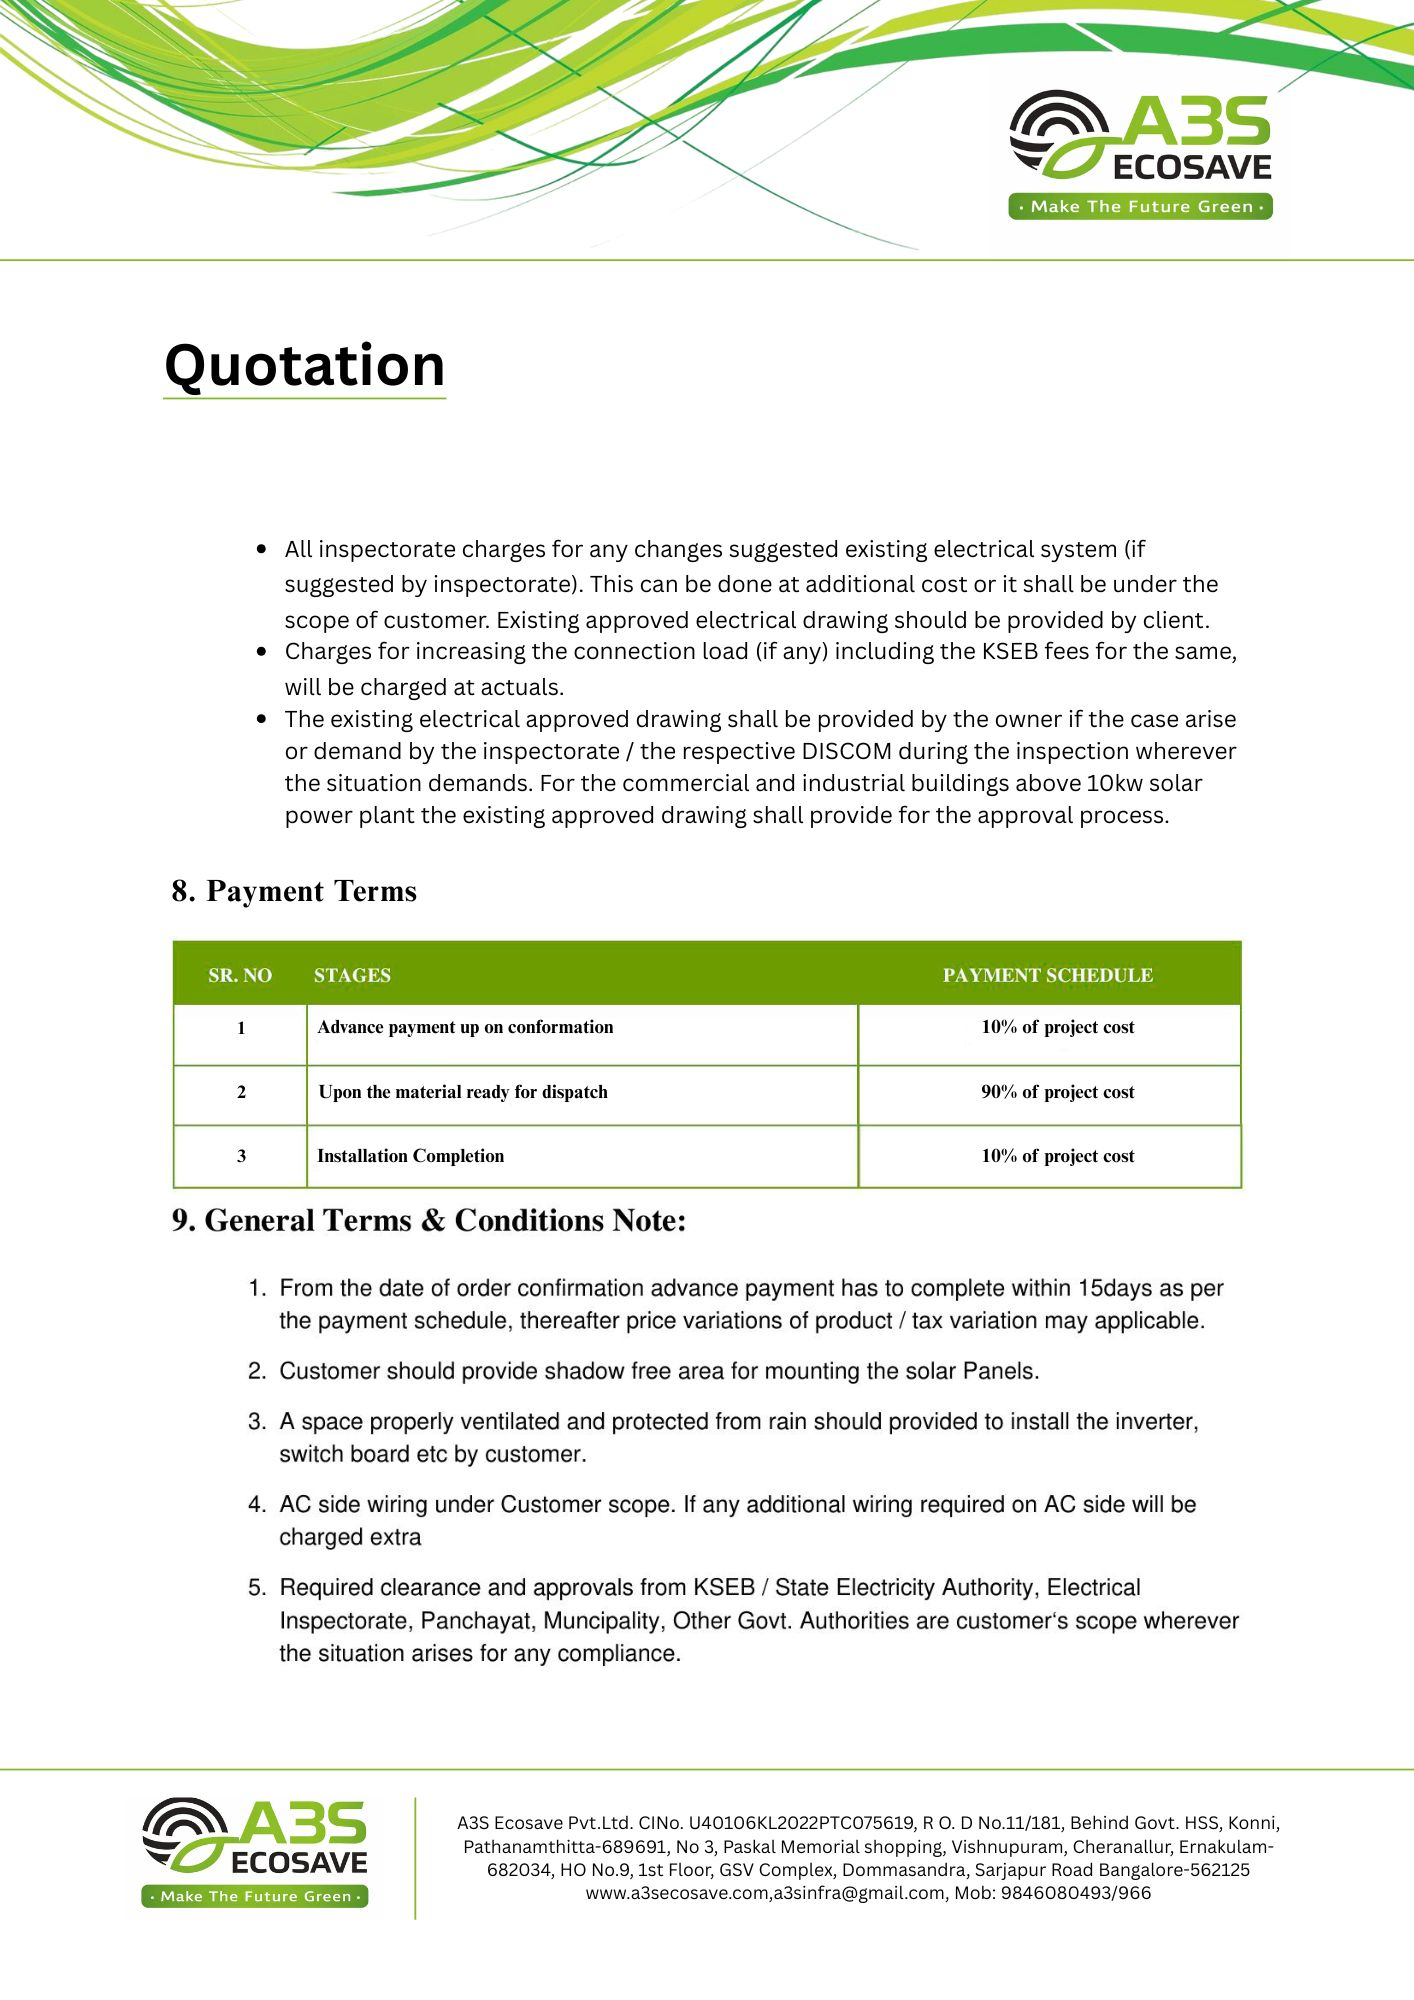
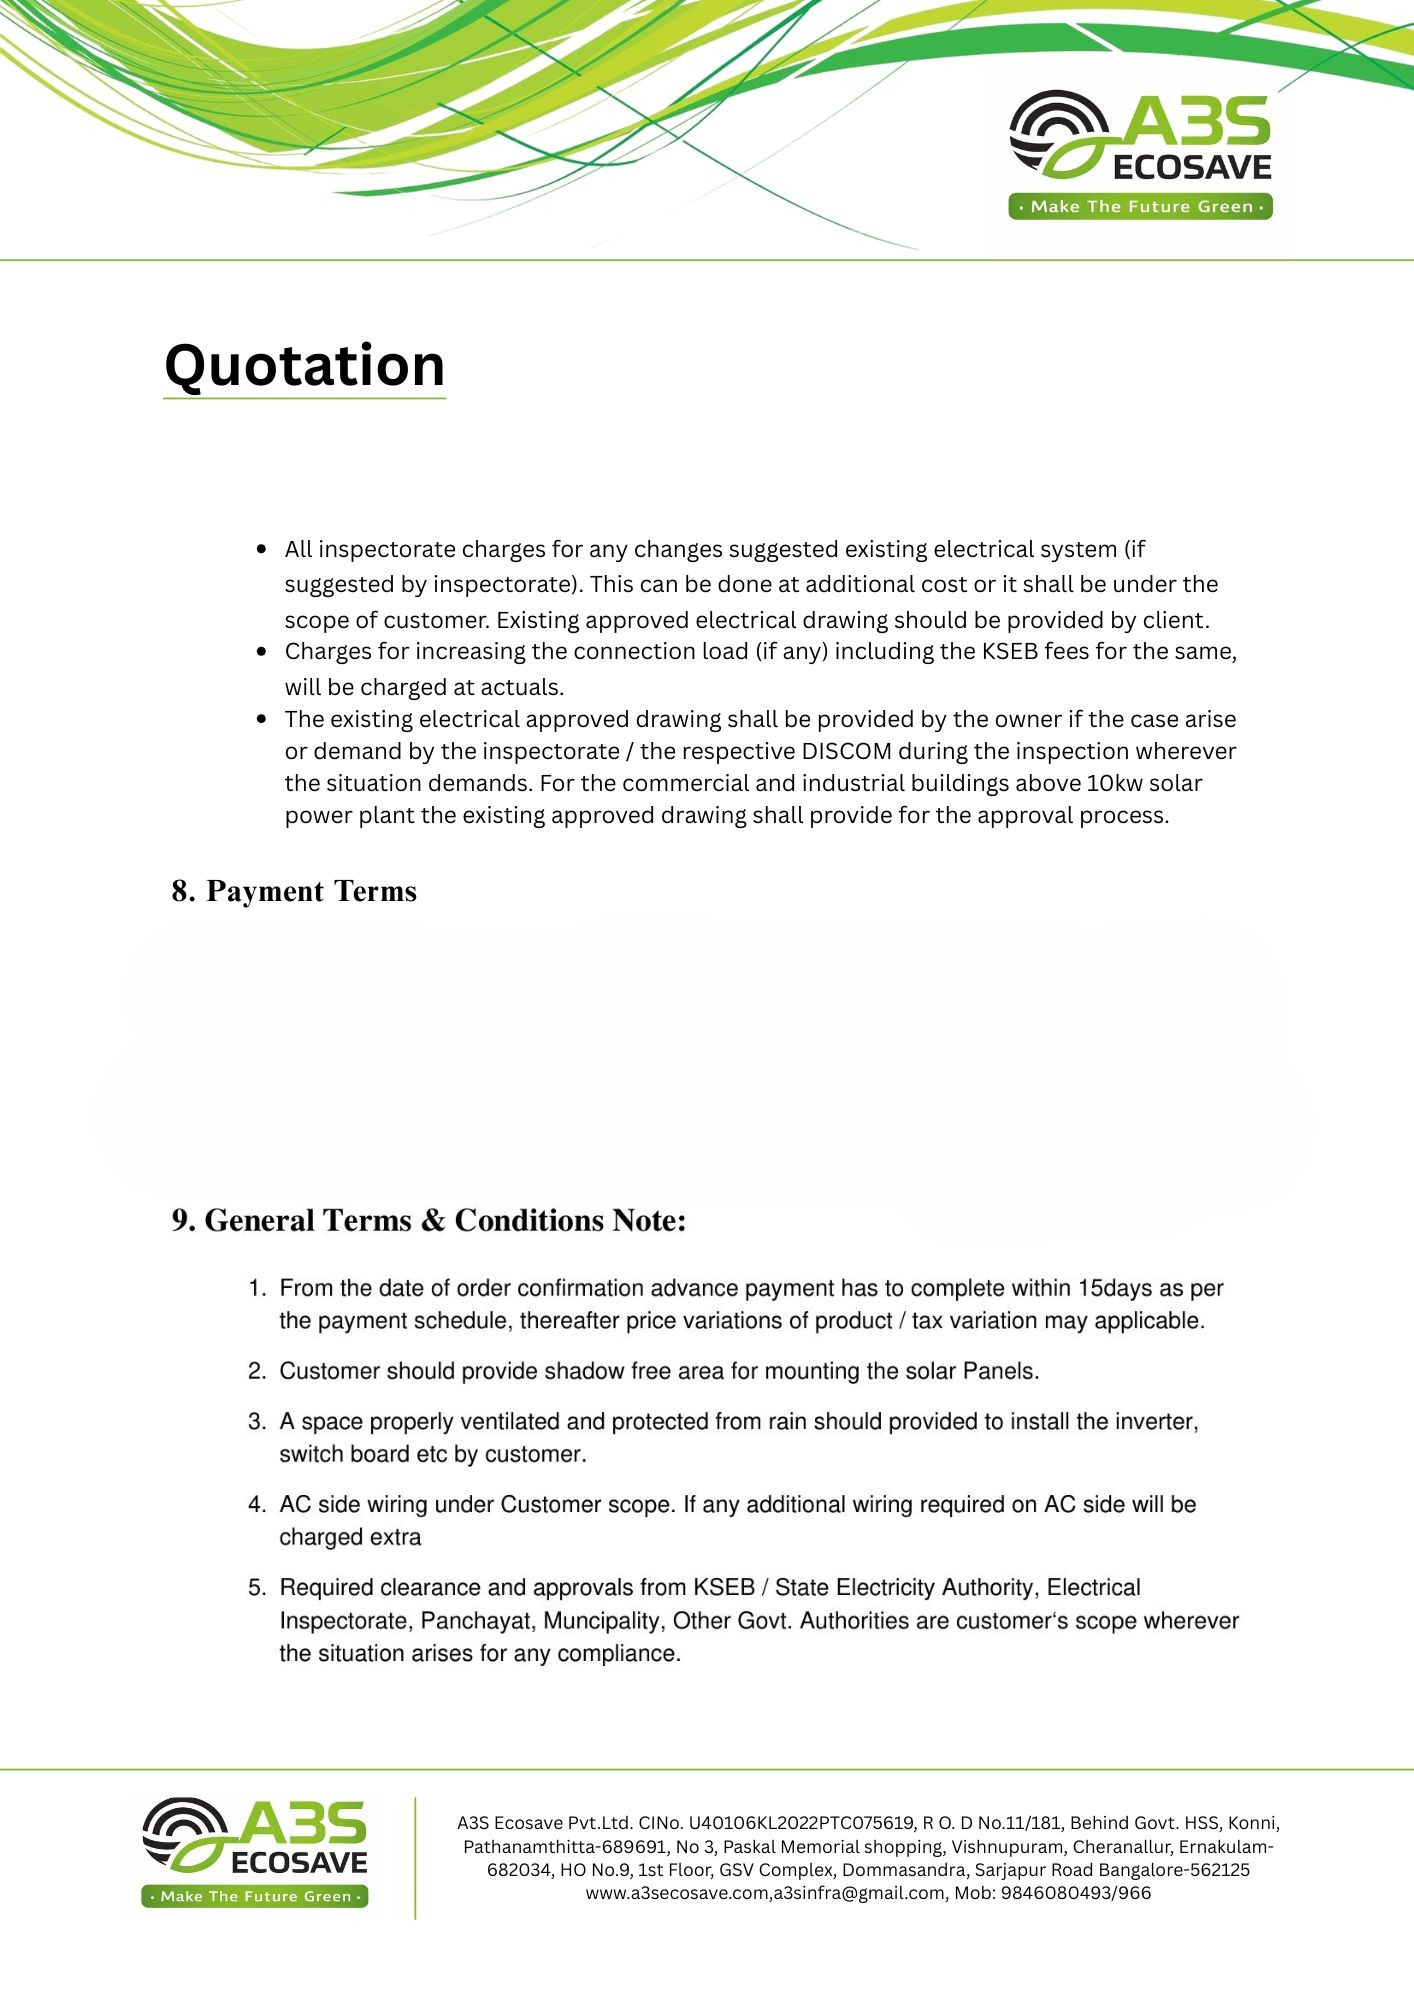
pdf ui change payment

Changed region(s): [[0.1245, 0.465, 0.9024, 0.589], [0.8713, 0.558, 0.9024, 0.589]]

diff --git a/lib/presentation/widgets/customer/pdf/print_residential.dart b/lib/presentation/widgets/customer/pdf/print_residential.dart
@@ -33,7 +33,7 @@ Future<void> printResidentialPDFs({
     await _addBillOfMaterialsPage(pdf);
     await _addPlaceholderPage(pdf, 9);
     await _addPlaceholderPage(pdf, 10);
-    await _addPlaceholderPage(pdf, 11);
+    await _addPaymentTermsPage(pdf, 11);
     await _addPlaceholderPage(pdf, 12);
     // await _addPlaceholderPage(pdf, 13);
 
@@ -583,6 +583,150 @@ pw.Widget _tableCell(String text, {pw.Alignment? align, bool isBold = false}) {
               : pw.TextAlign.left,
     ),
   );
+}
+
+Future<void> _addPaymentTermsPage(pw.Document pdf, int pageNumber) async {
+  String contentImagePath = 'assets/images/residential_${pageNumber}.jpg';
+  Uint8List? contentImageBytes;
+  pw.MemoryImage? contentImage;
+
+  final font = await PdfGoogleFonts.openSansRegular();
+  final boldFont = await PdfGoogleFonts.openSansBold();
+
+  try {
+    final ByteData contentImageData = await rootBundle.load(contentImagePath);
+    contentImageBytes = contentImageData.buffer.asUint8List();
+    contentImage = pw.MemoryImage(contentImageBytes);
+    pdf.addPage(
+      pw.Page(
+        margin: pw.EdgeInsets.zero,
+        pageFormat: PdfPageFormat.a4,
+        build: (pw.Context context) {
+          return pw.Stack(
+            children: [
+              pw.Container(
+                width: PdfPageFormat.a4.width,
+                height: PdfPageFormat.a4.height,
+                child: pw.Image(
+                  contentImage!,
+                  fit: pw.BoxFit.fill,
+                ),
+              ),
+              pw.Positioned(
+                top: 390,
+                right: 70,
+                left: 70,
+                child: pw.Table(
+                  border: pw.TableBorder.all(
+                      color: PdfColor.fromHex('#679900'), width: 1),
+                  columnWidths: {
+                    0: const pw.FixedColumnWidth(50),
+                    1: const pw.FlexColumnWidth(3),
+                    2: const pw.FlexColumnWidth(2),
+                  },
+                  children: [
+                    pw.TableRow(
+                      decoration:
+                          pw.BoxDecoration(color: PdfColor.fromHex('#679900')),
+                      children: [
+                        pw.Padding(
+                          padding: const pw.EdgeInsets.all(5),
+                          child: pw.Text('SR.No',
+                              style: pw.TextStyle(
+                                  font: boldFont, color: PdfColors.white)),
+                        ),
+                        pw.Padding(
+                          padding: const pw.EdgeInsets.all(5),
+                          child: pw.Text('STAGES',
+                              style: pw.TextStyle(
+                                  font: boldFont, color: PdfColors.white)),
+                        ),
+                        pw.Padding(
+                          padding: const pw.EdgeInsets.all(5),
+                          child: pw.Text('PAYMENT SCHEDULE',
+                              textAlign: pw.TextAlign.center,
+                              style: pw.TextStyle(
+                                  font: boldFont, color: PdfColors.white)),
+                        ),
+                      ],
+                    ),
+                    pw.TableRow(
+                      children: [
+                        pw.Padding(
+                          padding: const pw.EdgeInsets.all(5),
+                          child: pw.Text('1',
+                              textAlign: pw.TextAlign.center,
+                              style: pw.TextStyle(font: font)),
+                        ),
+                        pw.Padding(
+                          padding: const pw.EdgeInsets.all(5),
+                          child: pw.Text('Advance payment up on conformation',
+                              style: pw.TextStyle(font: font)),
+                        ),
+                        pw.Padding(
+                          padding: const pw.EdgeInsets.all(5),
+                          child: pw.Text('${quotation?.advancePercentage}%',
+                              textAlign: pw.TextAlign.center,
+                              style: pw.TextStyle(font: font)),
+                        ),
+                      ],
+                    ),
+                    pw.TableRow(
+                      children: [
+                        pw.Padding(
+                          padding: const pw.EdgeInsets.all(5),
+                          child: pw.Text('2',
+                              textAlign: pw.TextAlign.center,
+                              style: pw.TextStyle(font: font)),
+                        ),
+                        pw.Padding(
+                          padding: const pw.EdgeInsets.all(5),
+                          child: pw.Text('Upon the material ready for dispatch',
+                              style: pw.TextStyle(font: font)),
+                        ),
+                        pw.Padding(
+                          padding: const pw.EdgeInsets.all(5),
+                          child: pw.Text('${quotation?.onDeliveryPercentage}%',
+                              textAlign: pw.TextAlign.center,
+                              style: pw.TextStyle(font: font)),
+                        ),
+                      ],
+                    ),
+                    pw.TableRow(
+                      children: [
+                        pw.Padding(
+                          padding: const pw.EdgeInsets.all(5),
+                          child: pw.Text('3',
+                              textAlign: pw.TextAlign.center,
+                              style: pw.TextStyle(font: font)),
+                        ),
+                        pw.Padding(
+                          padding: const pw.EdgeInsets.all(5),
+                          child: pw.Text('Installation Completion',
+                              style: pw.TextStyle(font: font)),
+                        ),
+                        pw.Padding(
+                          padding: const pw.EdgeInsets.all(5),
+                          child: pw.Text(
+                              '${quotation?.workCompletionPercentage}%',
+                              textAlign: pw.TextAlign.center,
+                              style: pw.TextStyle(font: font)),
+                        ),
+                      ],
+                    ),
+                  ],
+                ),
+              ),
+            ],
+          );
+        },
+      ),
+    );
+  } catch (e) {
+    print('Content image not found: $contentImagePath');
+    _addFallbackPage(pdf, pageNumber);
+    return;
+  }
 }
 
 Future<void> _addPlaceholderPage(pw.Document pdf, int pageNumber) async {

diff --git a/lib/presentation/widgets/customer/add_quotation.dart b/lib/presentation/widgets/customer/add_quotation.dart
@@ -516,14 +516,25 @@ class _QuotationCreationWidgetState extends State<QuotationCreationWidget> {
                   const SizedBox(
                     height: 5,
                   ),
-                  CustomTextField(
-                    readOnly: false,
-                    height: 54,
-                    controller: customerDetailsProvider.qwarrentyController,
-                    hintText: 'Warranty',
-                    labelText: '',
-                    minLines: 4,
-                    keyboardType: TextInputType.multiline,
+                  SizedBox(
+                    child: TextFormField(
+                      controller: customerDetailsProvider.qwarrentyController,
+                      readOnly: false,
+                      minLines: 12,
+                      maxLines: 12,
+                      keyboardType: TextInputType.multiline,
+                      decoration: InputDecoration(
+                          hintText: 'Warranty',
+                          border: OutlineInputBorder(
+                            borderRadius:
+                                BorderRadius.circular(10), // Rounded corners
+                            borderSide: BorderSide(
+                              color: AppColors.textGrey2, // Border color
+                              width: 1, // Border width
+                            ),
+                          ),
+                          floatingLabelBehavior: FloatingLabelBehavior.auto),
+                    ),
                   ),
                   const SizedBox(height: 16),
                 ],
@@ -553,7 +564,10 @@ class _QuotationCreationWidgetState extends State<QuotationCreationWidget> {
                           readOnly: false,
                           height: 54,
                           controller: customerDetailsProvider.advanceController,
-                          hintText: 'Advance Against Purchase Order %',
+                          hintText:
+                              customerDetailsProvider.selectedQuotationType == 1
+                                  ? 'Advance payment up on conformation'
+                                  : 'Advance Against Purchase Order %',
                           labelText: '',
                           inputFormatters: [
                             FilteringTextInputFormatter.digitsOnly
@@ -569,7 +583,9 @@ class _QuotationCreationWidgetState extends State<QuotationCreationWidget> {
                           controller:
                               customerDetailsProvider.deliveryController,
                           hintText:
-                              'On readiness of major material at our warehouse before dispatch along with 100% taxes and against proforma invoice % ',
+                              customerDetailsProvider.selectedQuotationType == 1
+                                  ? 'Upon the material ready for dispatch'
+                                  : 'On readiness of major material at our warehouse before dispatch along with 100% taxes and against proforma invoice % ',
                           labelText: '',
                           inputFormatters: [
                             FilteringTextInputFormatter.digitsOnly
@@ -588,7 +604,10 @@ class _QuotationCreationWidgetState extends State<QuotationCreationWidget> {
                           height: 54,
                           controller:
                               customerDetailsProvider.workCompletionController,
-                          hintText: 'After project completion %',
+                          hintText:
+                              customerDetailsProvider.selectedQuotationType == 1
+                                  ? 'Installation Completion'
+                                  : 'After project completion %',
                           labelText: '',
                           inputFormatters: [
                             FilteringTextInputFormatter.digitsOnly
